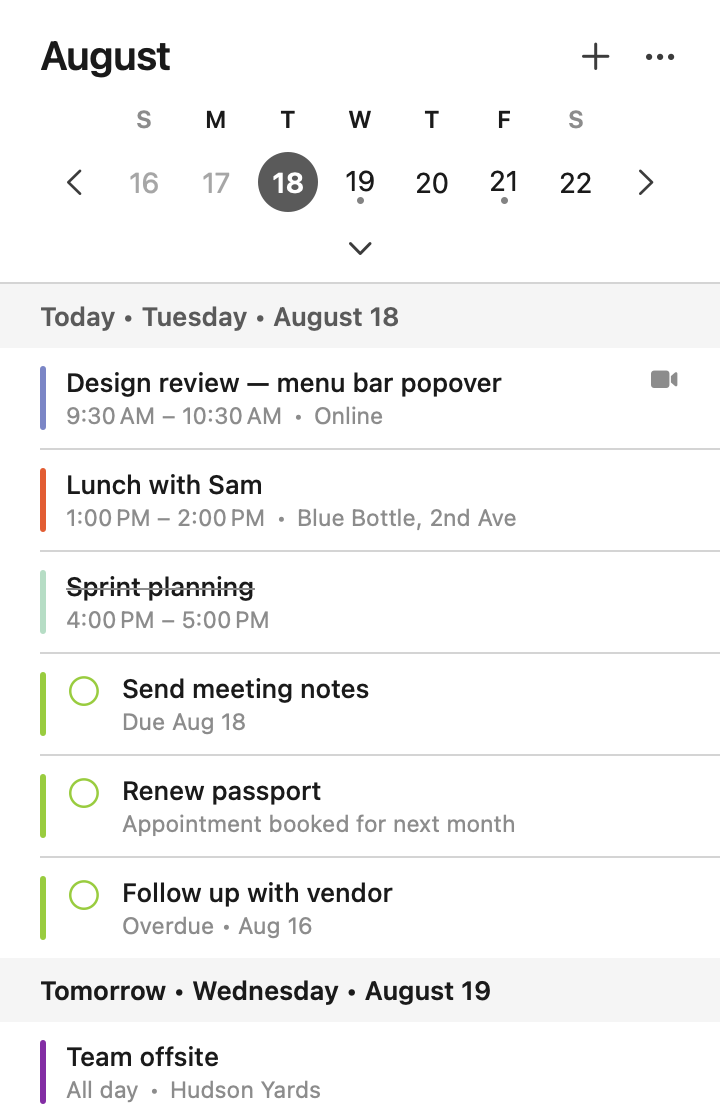
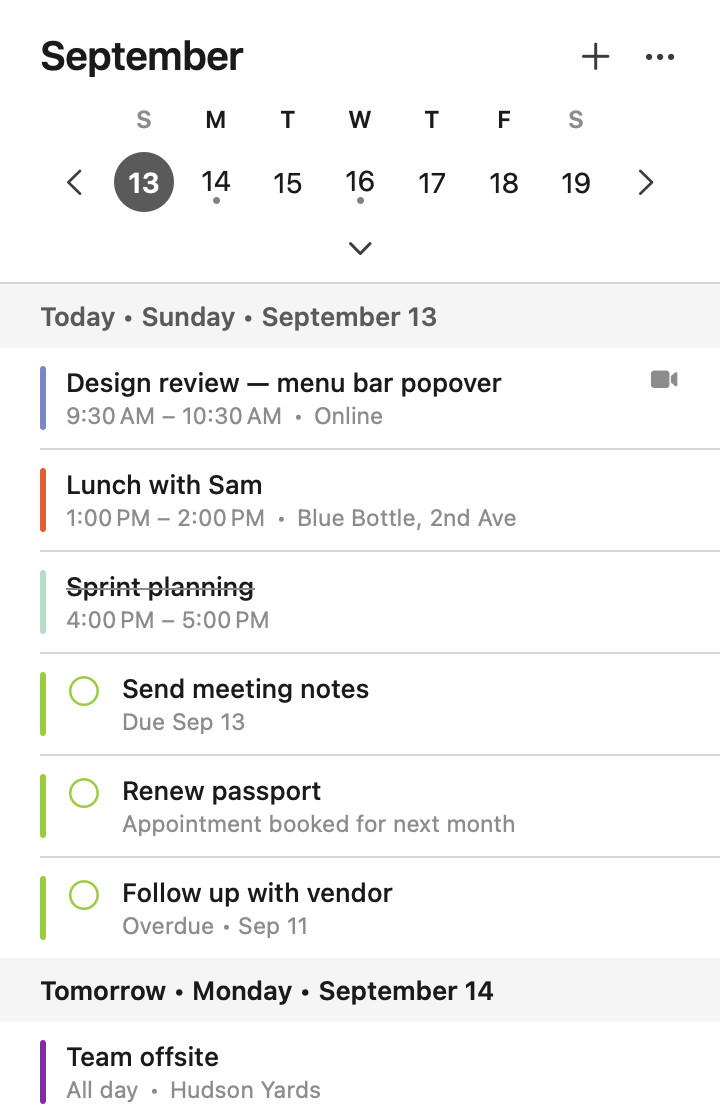
Show a scheduled task once, in the color it was given
Creating a task with a time slot in Google Calendar writes two things ~160ms
apart: the task itself, and a `focusTime` event mirroring it onto the calendar.
The popover was rendering both, so every scheduled task appeared twice.

Nothing in either API links them (the task's `links` is empty, the event has no
`extendedProperties`), so they are matched on title + day, narrowed to
focusTime/task event types so an ordinary event is never hidden for merely
sharing a name with a task. The mirror is dropped and the task kept, since the
task is the row that can be completed.

The mirror is also the only place the user's color choice survives — the Tasks
API has no color field — so its color is folded onto the task. Tasks with only
a due date still fall back to Theme.taskHex.

Also:
- build-app.sh: fall back to compiling with swiftc directly when SwiftPM is
  unusable, and probe for an SDK the compiler accepts. A partially-updated
  Command Line Tools install here left swift-package linked against a stale
  framework (aborts on launch) and made the default SDK newer than the bundled
  compiler can parse, which broke every build.
- Demo mode no longer surfaces Keychain warnings; it never signs in, and the
  banner was landing in the README preview render.
- Diagnostics: dump raw task JSON, and report each task's resolved color.

diff --git a/Sources/CalendarBar/Store/CalendarStore.swift b/Sources/CalendarBar/Store/CalendarStore.swift
@@ -97,8 +97,9 @@ final class CalendarStore: ObservableObject {
     func start() {
         if isDemoMode { loadDemoEvents() }
         // A Keychain read that failed (rather than finding nothing) must be explained
-        // instead of silently showing the sign-in panel.
-        if let warning = auth.keychainWarning { errorMessage = warning }
+        // instead of silently showing the sign-in panel. Demo mode never signs in, so a
+        // Keychain complaint there is noise — and would otherwise land in preview renders.
+        if let warning = auth.keychainWarning, !isDemoMode { errorMessage = warning }
         if auth.isSignedIn { refresh() }
         scheduleTimer()
 
@@ -181,6 +182,17 @@ final class CalendarStore: ObservableObject {
                 calendarNames[entry.id] = entry.summary ?? entry.id
             }
 
+            // Tasks are fetched before events so that conversion can recognise the
+            // calendar-side mirror of a scheduled task and fold the two together. A Tasks
+            // failure must not blank out events: it is a distinct API with its own scope
+            // and its own outage surface, so it only costs the reconciliation.
+            do {
+                tasks = try await fetchAllTasks()
+            } catch {
+                tasks = []
+            }
+            scheduledTaskColors = [:]
+
             // Fetch each visible calendar concurrently. One calendar failing (revoked
             // access, deleted subscription) must not discard the calendars that worked.
             var collected: [CalEvent] = []
@@ -222,19 +234,11 @@ final class CalendarStore: ObservableObject {
             }
 
             events = collected
+            applyScheduledTaskColors()
             lastUpdated = Date()
             errorMessage = failures.isEmpty
                 ? nil
                 : "Some calendars did not load: \(failures[0].localizedDescription)"
-
-            // Tasks failing must not blank out events that already loaded successfully;
-            // this is a distinct Google API with its own auth scope and its own outage
-            // surface, so it's kept independent of the calendar error above.
-            do {
-                tasks = try await fetchAllTasks()
-            } catch {
-                tasks = []
-            }
         } catch is CancellationError {
             return
         } catch {
@@ -252,6 +256,41 @@ final class CalendarStore: ObservableObject {
     }
 
     // MARK: - Tasks
+
+    /// Colors harvested from the calendar-side mirror of a scheduled task, keyed by task id.
+    private var scheduledTaskColors: [String: String] = [:]
+
+    /// Google mirrors a task that was given a time slot in Google Calendar into the calendar
+    /// itself as a `focusTime` event: same title, same day, written in the same instant as
+    /// the task. Nothing in either API links the two — the task's `links` array is empty and
+    /// the event carries no `extendedProperties` — so they are matched on title and day.
+    ///
+    /// The match is deliberately narrow. Only `focusTime`/`task` events qualify (a normal
+    /// event is never a task mirror), and only when a task with that title is due that day,
+    /// so an ordinary event is never hidden just for sharing a name with a task. The cost of
+    /// a false positive is a genuine Focus Time block being folded into an identically named
+    /// task due the same day, which is rare and preferable to showing every task twice.
+    private func matchingTask(title: String?, day: Date, eventType: String?) -> CalTask? {
+        guard eventType == "focusTime" || eventType == "task" else { return nil }
+        guard let needle = title?.trimmingCharacters(in: .whitespacesAndNewlines).nilIfEmpty
+        else { return nil }
+        return tasks.first { task in
+            guard let due = task.dueDay, calendar.isDate(due, inSameDayAs: day) else { return false }
+            return task.title.compare(needle, options: [.caseInsensitive, .diacriticInsensitive])
+                == .orderedSame
+        }
+    }
+
+    /// Moves the colors harvested during conversion onto the tasks themselves.
+    private func applyScheduledTaskColors() {
+        guard !scheduledTaskColors.isEmpty else { return }
+        tasks = tasks.map { task in
+            guard let hex = scheduledTaskColors[task.id] else { return task }
+            var colored = task
+            colored.colorHex = hex
+            return colored
+        }
+    }
 
     private func fetchAllTasks() async throws -> [CalTask] {
         let lists = try await tasksAPI.fetchTaskLists()
@@ -362,6 +401,17 @@ final class CalendarStore: ObservableObject {
                 + " allDay=\(isAllDay ? "y" : "n")"
                 + " cal=\(calendarNames[calendarID] ?? "?")"
                 + " | \(title)")
+        }
+
+        // A scheduled task arrives twice: once here as its calendar mirror, once from the
+        // Tasks API. Keep the task (it can be completed and carries the due date) and give
+        // it this event's color, which is the only place the user's color choice survives.
+        if let task = matchingTask(title: raw.summary, day: start, eventType: raw.eventType) {
+            scheduledTaskColors[task.id] = hex
+            if isDiagnosing {
+                eventDebugRows.append("      ^ folded into task \"\(task.title)\" (color \(hex))")
+            }
+            return nil
         }
 
         let identifier = raw.id ?? raw.iCalUID ?? UUID().uuidString
@@ -475,13 +525,20 @@ final class CalendarStore: ObservableObject {
                 } catch {
                     lines.append("    fetchTasks FAILED: \(error)")
                 }
+                if let raw = try? await tasksAPI.fetchRawTasksBody(taskListID: list.id),
+                   let pretty = try? JSONSerialization.jsonObject(with: raw),
+                   let data = try? JSONSerialization.data(withJSONObject: pretty,
+                                                          options: [.prettyPrinted, .sortedKeys]) {
+                    lines.append("    raw JSON: " + String(decoding: data, as: UTF8.self))
+                }
             }
         } catch {
             lines.append("fetchTaskLists FAILED: \(error)")
         }
         lines.append("store.tasks after refresh: \(tasks.count)")
         for t in tasks {
-            lines.append("  \(t.title) dueDay=\(t.dueDay?.description ?? "nil")")
+            lines.append("  \(t.title) dueDay=\(t.dueDay?.description ?? "nil")"
+                + " color=\(t.colorHex)\(t.colorHex == Theme.taskHex ? " (default)" : " (from calendar mirror)")")
         }
         return lines.joined(separator: "\n")
     }

diff --git a/Sources/CalendarBar/UI/AgendaListView.swift b/Sources/CalendarBar/UI/AgendaListView.swift
@@ -69,7 +69,9 @@ private enum AgendaRow: Identifiable {
 }
 
 /// A single Google Task row. Tasks have no per-item color in Google's own API, so every
-/// row uses one fixed accent (Theme.taskHex) to read as a distinct category from events.
+/// row shows the color the user picked for it in Google Calendar where that exists, and
+/// falls back to one fixed accent (Theme.taskHex) for tasks that have no color anywhere in
+/// Google's APIs. The checkbox keeps tasks distinguishable from events either way.
 private struct TaskRow: View {
     let task: CalTask
     @ObservedObject var store: CalendarStore
@@ -77,11 +79,9 @@ private struct TaskRow: View {
 
     var body: some View {
         HStack(alignment: .top, spacing: 10) {
-            // Same colored left bar as EventRow, but fixed to one hue (Theme.taskHex) so
-            // tasks read as their own category at a glance rather than blending into
-            // whichever event color happens to be adjacent.
+            // Same colored left bar as EventRow.
             RoundedRectangle(cornerRadius: 2, style: .continuous)
-                .fill(Color(hex: Theme.taskHex))
+                .fill(task.color)
                 .frame(width: 3)
                 .frame(minHeight: 32)
 
@@ -90,7 +90,7 @@ private struct TaskRow: View {
             } label: {
                 Image(systemName: isCompleting ? "circle.dotted" : "circle")
                     .font(.system(size: 15))
-                    .foregroundStyle(Color(hex: Theme.taskHex))
+                    .foregroundStyle(task.color)
             }
             .buttonStyle(.plain)
             .disabled(isCompleting)

diff --git a/Sources/CalendarBar/API/GoogleTasksAPI.swift b/Sources/CalendarBar/API/GoogleTasksAPI.swift
@@ -43,6 +43,30 @@ struct GoogleTasksAPI {
         return tasks
     }
 
+    /// Diagnostics: every field Google returns for a task list's tasks, verbatim.
+    func fetchRawTasksBody(taskListID: String) async throws -> Data {
+        var components = URLComponents(url: AppConfig.tasksAPIBase, resolvingAgainstBaseURL: false)!
+        let base = AppConfig.tasksAPIBase.path
+        components.percentEncodedPath = (base.hasSuffix("/") ? base : base + "/")
+            + "lists/\(GoogleCalendarAPI.encodePathSegment(taskListID))/tasks"
+        components.queryItems = [
+            URLQueryItem(name: "maxResults", value: "100"),
+            URLQueryItem(name: "showCompleted", value: "false")
+        ]
+        let token = try await tokenProvider(false)
+        var request = URLRequest(url: components.url!)
+        request.setValue("Bearer \(token)", forHTTPHeaderField: "Authorization")
+        request.setValue("application/json", forHTTPHeaderField: "Accept")
+        let (data, response) = try await session.data(for: request)
+        let status = (response as? HTTPURLResponse)?.statusCode ?? -1
+        guard status == 200 else {
+            throw GoogleCalendarAPI.APIError.google(
+                status: status, reason: "raw_task_probe",
+                message: String(decoding: data.prefix(200), as: UTF8.self))
+        }
+        return data
+    }
+
     /// Marks a task completed. Google clears `needsAction` tasks off the default view once
     /// completed, so no explicit "uncomplete" affordance is offered in the popover.
     func completeTask(taskListID: String, taskID: String) async throws {

diff --git a/Sources/CalendarBar/UI/Theme.swift b/Sources/CalendarBar/UI/Theme.swift
@@ -25,9 +25,11 @@ enum Theme {
     /// with Google's UI, not a value read from the API.
     static let birthdayHex = "0B8043"
 
-    /// Fixed color for every Google Tasks item, deliberately outside the event color
-    /// palette (classic + extended + birthday) so tasks are visually distinct from events
-    /// at a glance without needing per-task coloring, which Google Tasks doesn't support.
+    /// Fallback color for Google Tasks items, deliberately outside the event color palette
+    /// (classic + extended + birthday) so tasks stay visually distinct at a glance. Used
+    /// for tasks with no color anywhere in Google's APIs — the Tasks API has no color
+    /// field, so only tasks given a time slot in Google Calendar carry one, via the
+    /// calendar-side mirror CalendarStore folds into them.
     static let taskHex = "8ACE00"
 
     static let popoverBackground = dynamic(light: .white, dark: NSColor(hex: "1E1E1E"))

diff --git a/Sources/CalendarBar/API/Models.swift b/Sources/CalendarBar/API/Models.swift
@@ -177,8 +177,13 @@ struct CalTask: Identifiable, Equatable {
     let notes: String?
     /// Start-of-day; Google Tasks due dates have no time component.
     let dueDay: Date?
+    /// The Tasks API has no color field. A task given a time slot in Google Calendar is
+    /// mirrored there as a `focusTime` event which *does* carry the color the user picked,
+    /// so CalendarStore copies it across during refresh (see `matchingTask`).
+    /// Tasks with no time slot have no color anywhere in Google's APIs and keep this default.
+    var colorHex: String = Theme.taskHex
 
-    var color: Color { Color(hex: Theme.taskHex) }
+    var color: Color { Color(hex: colorHex) }
 }
 
 // MARK: - Date parsing

diff --git a/README.md b/README.md
@@ -10,7 +10,8 @@ per-event custom colors are preserved exactly as you set them in Google Calendar
 - Agent app (`LSUIElement`): menu bar only, no Dock icon, no app menu
 - Collapsible month/week grid, accent-colored "today" badge, week/month navigation arrows
 - Seven-day agenda, grouped by day: `Today • Thursday • August 13`, `Tomorrow`, …
-- Google Tasks shown inside their due day, with a checkbox to mark complete inline
+- Google Tasks shown inside their due day, with a checkbox to mark complete inline; a task
+  scheduled in Google Calendar appears once, in the color you gave it
 - Per-event colors matched to Google Calendar's palette, including the newer extended
   swatches and birthday events (see [Colors](#colors))
 - Nine switchable accent palettes plus light/dark override, from the **…** menu
@@ -151,8 +152,12 @@ you see there. Three sources feed into this:
 - **Birthdays** (`eventType: "birthday"`) — Google sends no color for these at all; the app
   approximates its own client's fixed green.
 
-**Tasks always render in one fixed color** (`Theme.taskHex`), since Google Tasks has no
-per-item color of its own.
+**Tasks** have no color field in the Tasks API at all. A task given a *time slot* in Google
+Calendar is mirrored there as a `focusTime` event that does carry the color you picked, so
+that color is folded onto the task and the duplicate row dropped (see `matchingTask` in
+[`Store/CalendarStore.swift`](Sources/CalendarBar/Store/CalendarStore.swift)).
+Tasks with only a due date have no color anywhere in Google's APIs and fall back to
+`Theme.taskHex`.
 
 ## How it works
 
